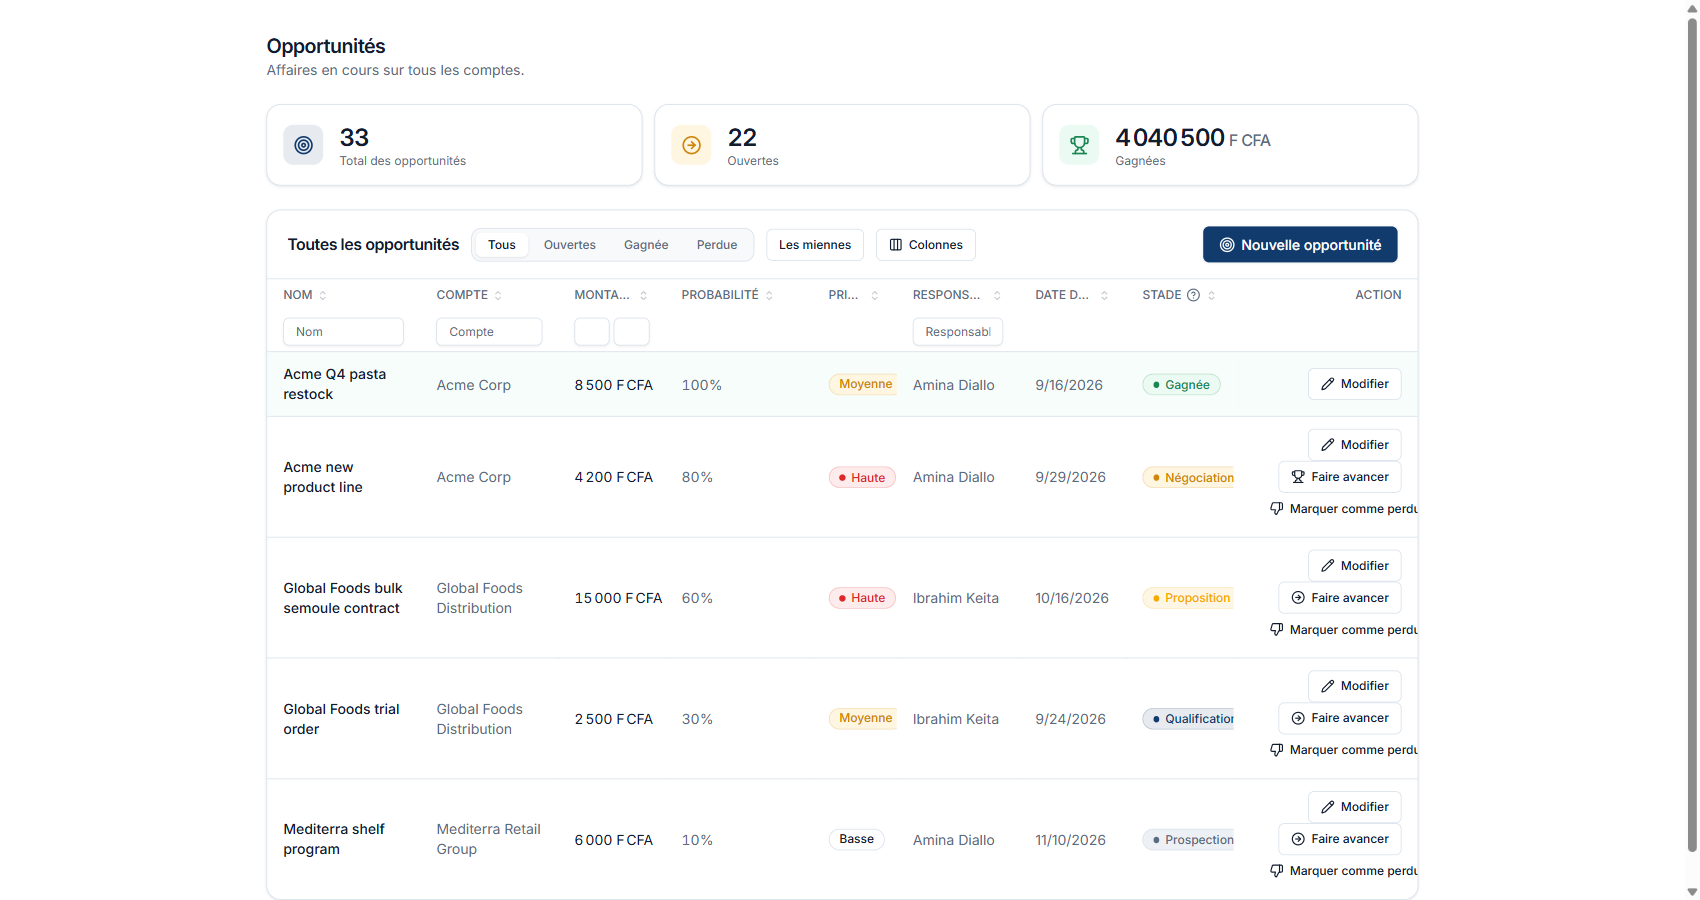
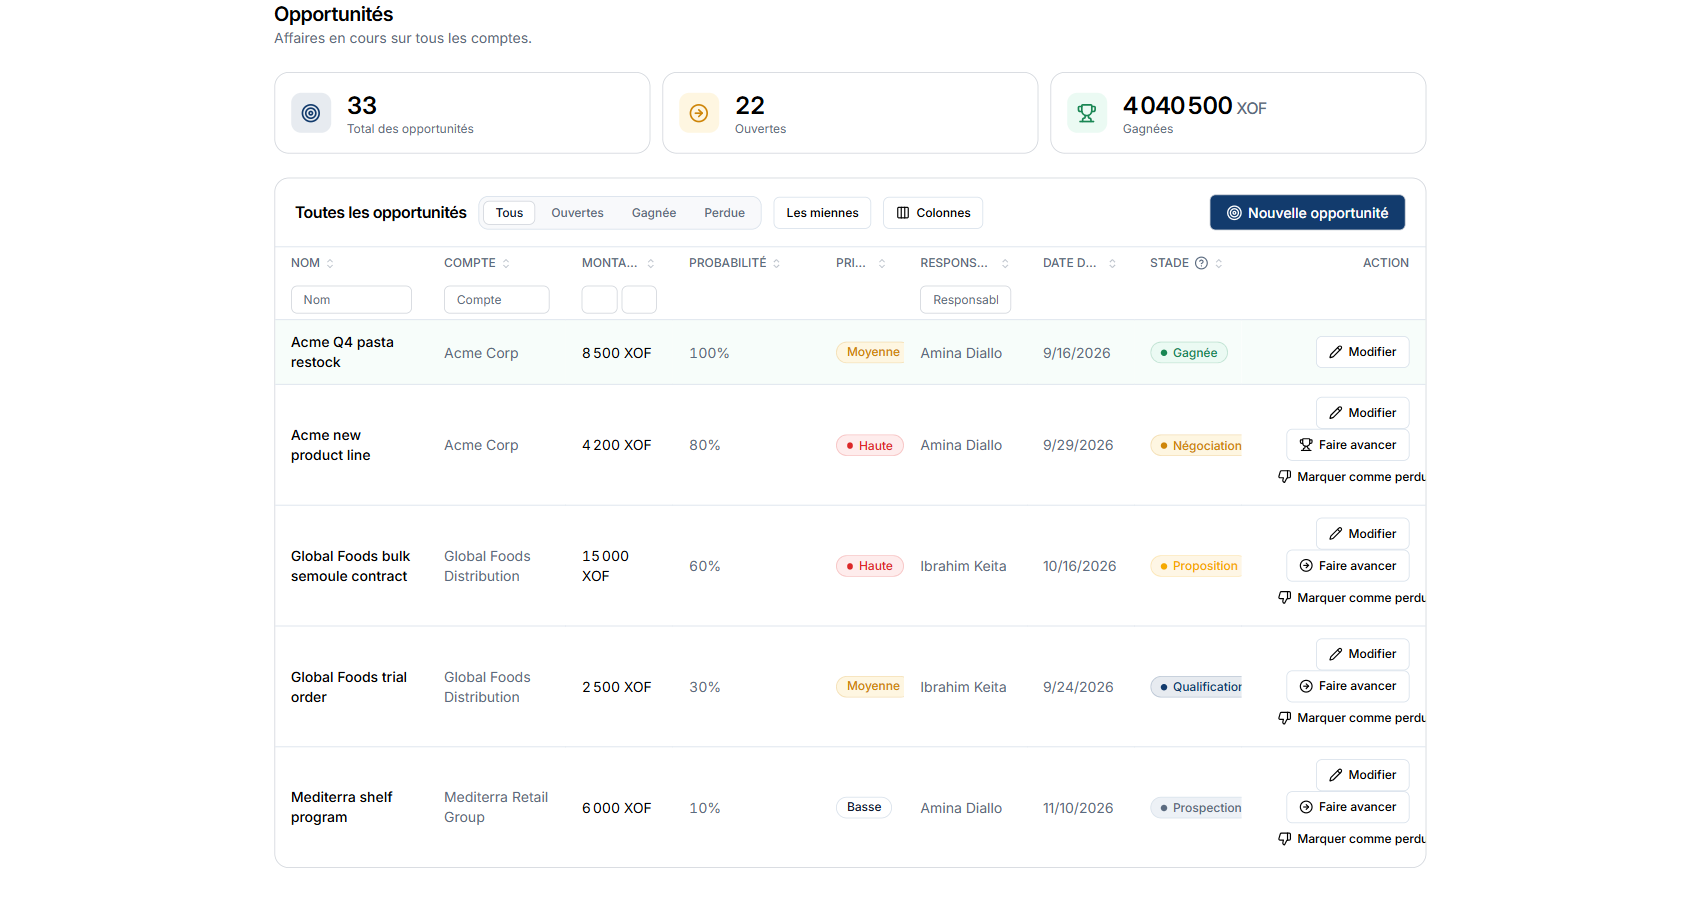
docs(manuel): re-capture the screens the currency fix changed
Six images showed the old spellings ("104 528 500 XOFs" on a stat card,
"7 951 000 F CFA" in the table under it) and the Partenaires button still
read "View". Re-captured against the fixed app: CRM dashboard, opportunities,
pipeline, agenda, partners, and the Finance invoice list the guide reuses
five times.

The Finance page now renders ~32px higher, so all eight badges on
01-factures.png were re-measured rather than assumed still correct.

Capture note: Framer Motion keeps the pipeline and the count-up KPI cards
moving, so Playwright's element screenshot times out waiting for stability.
Injecting `animation:none;transition:none` for the capture settles them.

Verified: 33 image references, 0 broken, 78 badges, all 30 tasks still
carrying a success box.

diff --git a/docs/manuel/02-finance.html b/docs/manuel/02-finance.html
@@ -168,9 +168,9 @@ footer { color: var(--gris); font-size: 16px; text-align: center; padding: 30px 
 
   <figure class="capture">
     <img src="images/finance/01-factures.png" alt="Écran Finance : la liste des factures">
-    <span class="pastille" style="left:47.5%; top:43.3%">1</span>
-    <span class="pastille" style="left:47.5%; top:56%">2</span>
-    <span class="pastille" style="left:47.5%; top:62.3%">3</span>
+    <span class="pastille" style="left:47.5%; top:39.8%">1</span>
+    <span class="pastille" style="left:47.5%; top:52.4%">2</span>
+    <span class="pastille" style="left:47.5%; top:58.7%">3</span>
   </figure>
 
   <ol class="etapes">
@@ -194,7 +194,7 @@ footer { color: var(--gris); font-size: 16px; text-align: center; padding: 30px 
 
   <figure class="capture">
     <img src="images/finance/01-factures.png" alt="Le bouton Nouvelle facture">
-    <span class="pastille" style="left:72.2%; top:27.7%">1</span>
+    <span class="pastille" style="left:72.1%; top:24.2%">1</span>
   </figure>
 
   <ol class="etapes">
@@ -236,7 +236,7 @@ footer { color: var(--gris); font-size: 16px; text-align: center; padding: 30px 
 
   <figure class="capture">
     <img src="images/finance/01-factures.png" alt="Le bouton Émettre sur une facture en brouillon">
-    <span class="pastille" style="left:74.5%; top:56%">1</span>
+    <span class="pastille" style="left:76.8%; top:52.4%">1</span>
   </figure>
 
   <ol class="etapes">
@@ -264,7 +264,7 @@ footer { color: var(--gris); font-size: 16px; text-align: center; padding: 30px 
 
   <figure class="capture">
     <img src="images/finance/01-factures.png" alt="Le bouton Marquer payée">
-    <span class="pastille" style="left:75.5%; top:43.3%">1</span>
+    <span class="pastille" style="left:75.5%; top:39.8%">1</span>
   </figure>
 
   <ol class="etapes">
@@ -291,8 +291,8 @@ footer { color: var(--gris); font-size: 16px; text-align: center; padding: 30px 
 
   <figure class="capture">
     <img src="images/finance/01-factures.png" alt="Le compteur En attente et le filtre Émise">
-    <span class="pastille" style="left:38%; top:16%">1</span>
-    <span class="pastille" style="left:35.5%; top:27.7%">2</span>
+    <span class="pastille" style="left:38%; top:12.5%">1</span>
+    <span class="pastille" style="left:35.7%; top:24.2%">2</span>
   </figure>
 
   <ol class="etapes">
